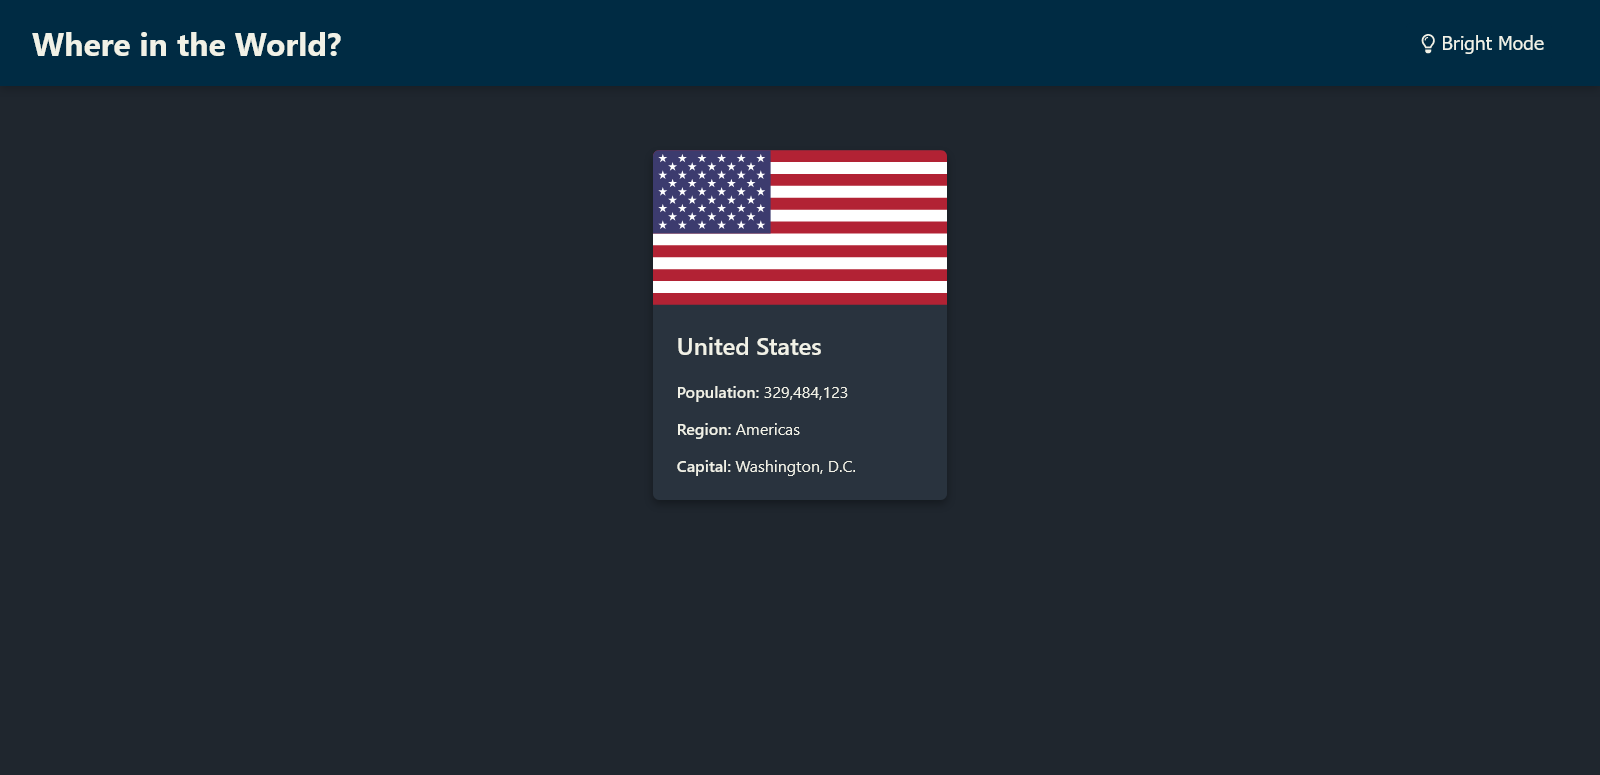
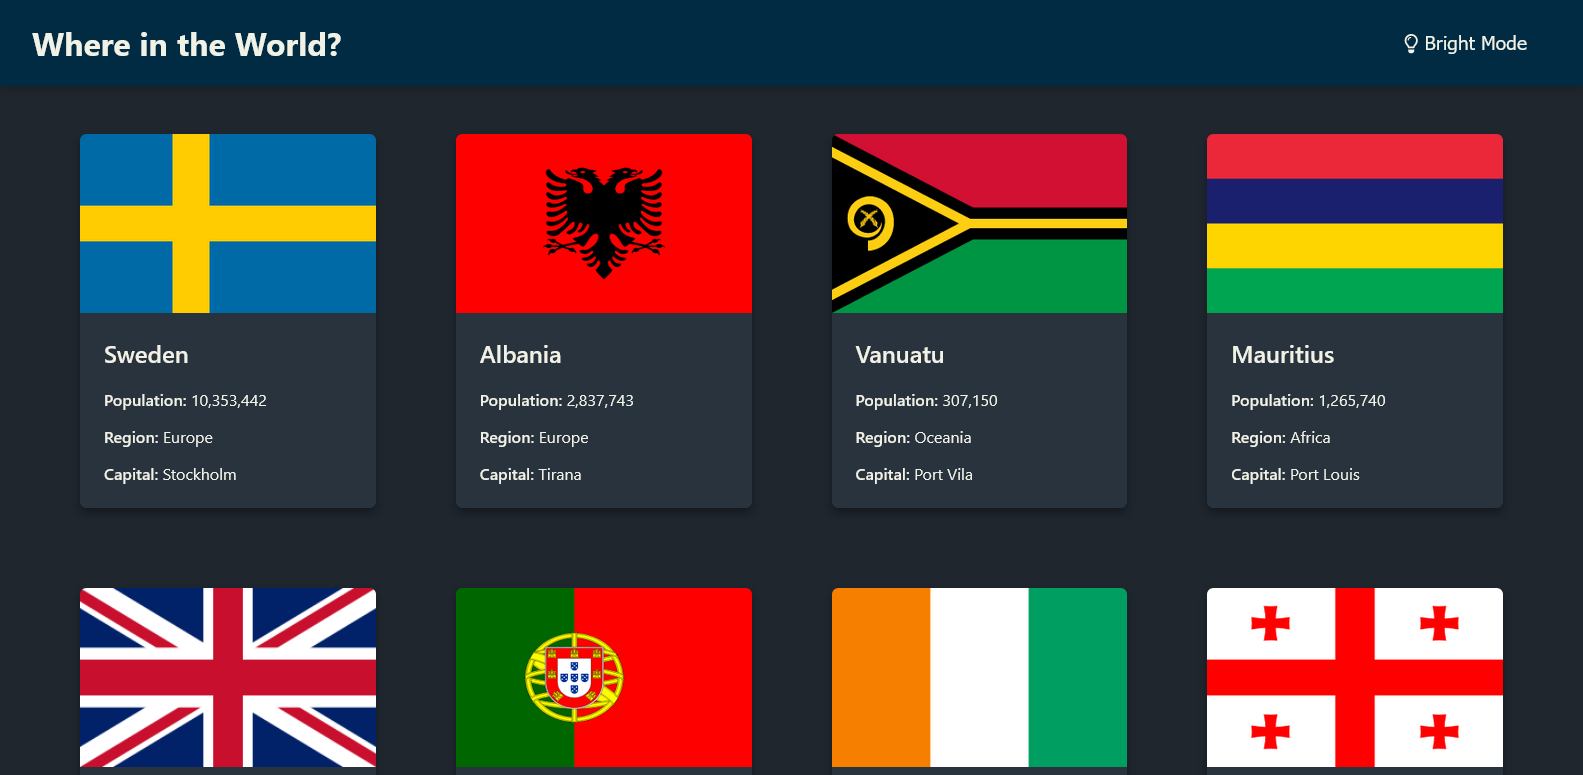
CountryGrid

diff --git a/src/App.tsx b/src/App.tsx
@@ -1,56 +1,11 @@
-import { useContext, useEffect, useState } from "react";
-import useHttp from "./hooks/use-http";
-
-import { Country } from "./context/types";
+import { useState } from "react";
 
 import c from "./App.module.scss";
 import Header from "./components/layout/Header";
-import { CountriesContext } from "./context/countries-context";
-import CountryCard from "./components/countries/CountryCard";
-
-const dataReducer = (raw: any): [Country] => {
-  return raw.map((country: any): Country => {
-    const nativeNames = country.name.nativeName
-      ? Object.values<{ common: string; official: string }>(
-          country.name.nativeName
-        ).map((name) => name.common)
-      : undefined;
-    return {
-      name: country.name.common,
-      nativeNames: nativeNames as [string],
-      capitals: country.capital,
-      languages: country.languages,
-      cca3: country.cca3,
-      borders: country.borders,
-      currencies: country.currencies,
-      region: country.region,
-      subRegion: country.subRegion,
-      population: country.population,
-      topLevelDomains: country.tld,
-      flagUrl: country.flags.svg,
-    };
-  });
-};
-
+import CountryGrid from "./components/countries/CountryGrid";
 
 function App() {
   const [theme, setTheme] = useState("");
-  const {
-    data: countries,
-    error,
-    isLoading,
-    request,
-  } = useHttp("https://restcountries.com/v3.0/alpha?codes=aq,us", dataReducer);
-  const ctx = useContext(CountriesContext);
-
-  useEffect(() => {
-    request();
-    // eslint-disable-next-line react-hooks/exhaustive-deps
-  }, []);
-  useEffect(() => {
-    if (countries) ctx.setCountries(countries);
-  }, [countries, ctx]);
-console.log(ctx.countries);
 
   const toggleThemeHandler = () => {
     setTheme(() => (theme === "" ? "dark" : ""));
@@ -58,16 +13,9 @@ console.log(ctx.countries);
   return (
     <div className={c.App} data-theme={theme}>
       <Header onSwitch={toggleThemeHandler} theme={theme}></Header>
-      {isLoading && <h2>loading...</h2>}
-      {ctx.countries.length  && <div className={c.flex}>
-        <CountryCard
-          name={ctx.countries[0].name}
-          capital={ctx.countries[0].capitals?.[0]}
-          population={ctx.countries[0].population}
-          region={ctx.countries[0].region}
-          flagUrl={ctx.countries[0].flagUrl}
-        />
-      </div>}
+      <main>
+        <CountryGrid />
+      </main>
     </div>
   );
 }

diff --git a/src/components/countries/CountryGrid.tsx b/src/components/countries/CountryGrid.tsx
@@ -1,0 +1,75 @@
+import { FC, useContext, useEffect } from "react";
+import { CountriesContext } from "../../context/countries-context";
+import { Country } from "../../context/types";
+import useHttp from "../../hooks/use-http";
+import CountryCard from "./CountryCard";
+
+import c from "./CountryGrid.module.scss";
+
+interface Props {}
+
+const dataReducer = (raw: any): [Country] => {
+  return raw.map((country: any): Country => {
+    const nativeNames = country.name.nativeName
+      ? Object.values<{ common: string; official: string }>(
+          country.name.nativeName
+        ).map((name) => name.common)
+      : undefined;
+    return {
+      name: country.name.common,
+      nativeNames: nativeNames as [string],
+      capitals: country.capital,
+      languages: country.languages,
+      cca3: country.cca3,
+      borders: country.borders,
+      currencies: country.currencies,
+      region: country.region,
+      subRegion: country.subRegion,
+      population: country.population,
+      topLevelDomains: country.tld,
+      flagUrl: country.flags.png,
+    };
+  });
+};
+
+const CountryGrid: FC<Props> = (props) => {
+  const {
+    data: countries,
+    error,
+    isLoading,
+    request,
+  } = useHttp(
+    "https://restcountries.com/v3.1/all",
+    dataReducer
+  );
+  const ctx = useContext(CountriesContext);
+
+  useEffect(() => {
+    request();
+    // eslint-disable-next-line react-hooks/exhaustive-deps
+  }, []);
+  useEffect(() => {
+    if (countries) ctx.setCountries(countries);
+  }, [countries, ctx]);
+
+  const content = isLoading ? (
+    <h2>loading...</h2>
+  ) : error ? (
+    <h2>something went wrong.</h2>
+  ) : (
+    ctx.countries.map((country) => (
+      <CountryCard
+        key={country.name}
+        name={country.name}
+        capital={country.capitals?.[0]}
+        population={country.population}
+        region={country.region}
+        flagUrl={country.flagUrl}
+      />
+    ))
+  );
+
+  return <div className={c["country-grid"]}>{content}</div>;
+};
+
+export default CountryGrid;

diff --git a/src/components/countries/CountryCard.tsx b/src/components/countries/CountryCard.tsx
@@ -1,30 +1,42 @@
 import { FC } from "react";
 
-import c from "./CountryCard.module.scss"
+import c from "./CountryCard.module.scss";
 
 interface Props {
-    name: string;
-    population: number;
-    region: string;
-    capital?: string;
-    flagUrl: string;
+  name: string;
+  population: number;
+  region: string;
+  capital?: string;
+  flagUrl: string;
 }
 
-
-const CountryCard: FC<Props> = ({name, population, region, capital, flagUrl}) => {
-    
+const CountryCard: FC<Props> = ({
+  name,
+  population,
+  region,
+  capital,
+  flagUrl,
+}) => {
   return (
-        <div className={c["country-card"]}>
-            <img src={flagUrl} alt={`flag of ${name}`}/>
-            <div className={c.info}>
-                <h2>{name}</h2>
-                <p><span>Population: </span>{population.toLocaleString()}</p>
-                <p><span>Region: </span>{region}</p>
-                <p><span>Capital: </span>{capital || "Has no capital."}</p>
-            </div>
-        </div>
+    <div className={c["country-card"]}>
+      <img src={flagUrl} alt={`flag of ${name}`} />
+      <div className={c.info}>
+        <h2>{name}</h2>
+        <p>
+          <span>Population: </span>
+          {population.toLocaleString()}
+        </p>
+        <p>
+          <span>Region: </span>
+          {region}
+        </p>
+        <p>
+          <span>Capital: </span>
+          {capital || "Has no capital."}
+        </p>
+      </div>
+    </div>
   );
 };
-
 
 export default CountryCard;

diff --git a/src/components/countries/CountryGrid.module.scss b/src/components/countries/CountryGrid.module.scss
@@ -1,0 +1,21 @@
+
+.country-grid {
+    display: grid;
+    margin: 3rem 5rem;
+    gap: 5rem;
+    grid-template-columns: repeat(4, 1fr);
+}
+
+@media screen and (max-width: 1200px) {
+    .country-grid {
+        grid-template-columns: repeat(2, 1fr);
+
+    }
+    
+}
+@media screen and (max-width: 700px) {
+    .country-grid {
+        grid-template-columns: repeat(1, 1fr);
+        margin: 3rem;
+    }
+}

diff --git a/src/components/countries/CountryCard.module.scss b/src/components/countries/CountryCard.module.scss
@@ -1,14 +1,16 @@
 .country-card {
     background-color: var(--background-brighter);
-    max-width: 20%;
     border-radius: .4rem;
     overflow: clip;
     box-shadow: 0 .3rem .5rem var(--shadow);
-
     & img {
-        width: 100%
+        object-fit: fill;
+        aspect-ratio: calc(165/100);
+        width: 100%;
     }
+
 }
+
 
 .info {
     padding: 0 1.5rem .5rem;

diff --git a/src/App.module.scss b/src/App.module.scss
@@ -2,7 +2,9 @@
 .App {
   text-align: center;
   position: relative;
-  height: 100vh;
+  padding: 0 0 4rem;
+  min-height: 100vh;
+  box-sizing: border-box;
   background-color: var(--background);
   width: 100%;
 }

diff --git a/src/components/layout/Header.module.scss b/src/components/layout/Header.module.scss
@@ -5,6 +5,7 @@
     justify-content: space-between;
     align-items: center;
     position: sticky;
+    top: 0;
     width: 100%;
     padding: 0 2rem;
     background: var(--accent-background);
